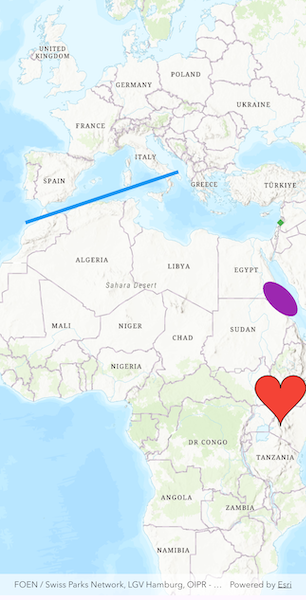
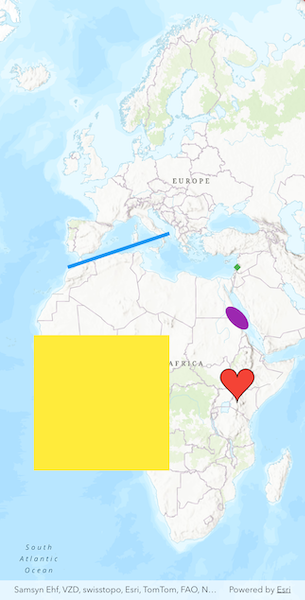
Updated the square polygon

diff --git a/lib/samples/style_graphics_with_renderer/style_graphics_with_renderer.dart b/lib/samples/style_graphics_with_renderer/style_graphics_with_renderer.dart
@@ -48,6 +48,7 @@ class _StyleGraphicsWithRendererState extends State<StyleGraphicsWithRenderer>
 
     // Add graphics overlays to the mapview controller.
     _mapViewController.graphicsOverlays.add(getPointGraphicsOverlay());
+    _mapViewController.graphicsOverlays.add(getSquarePolygonGraphicsOverlay());
     _mapViewController.graphicsOverlays.add(getLineGraphicsOverlay());
     _mapViewController.graphicsOverlays.add(getEllipseGraphicsOverlay());
     _mapViewController.graphicsOverlays.add(getCurvedPolygonGraphicsOverlay());
@@ -57,10 +58,10 @@ class _StyleGraphicsWithRendererState extends State<StyleGraphicsWithRenderer>
     // Combined extent of all the graphic overlays.
     final combinedExtent = Envelope.fromXY(
       spatialReference: SpatialReference.webMercator,
-      xMin: -1500000,
-      yMin: 000000,
-      xMax: 4500000,
-      yMax: 5500000,
+      xMin: -3000000,
+      yMin: -1000000,
+      xMax: 6000000,
+      yMax: 7000000,
     );
 
     _mapViewController.setViewpointGeometry(combinedExtent);
@@ -112,6 +113,28 @@ class _StyleGraphicsWithRendererState extends State<StyleGraphicsWithRenderer>
     lineGraphicsOverlay.graphics.add(lineGraphic);
 
     return lineGraphicsOverlay;
+  }
+
+  GraphicsOverlay getSquarePolygonGraphicsOverlay() {
+    // Create a simple fill symbol.
+    final squareSymbol = SimpleFillSymbol(color: Colors.yellow);
+    // Create a graphics overlay for the square polygons.
+    final squareGraphicsOverlay = GraphicsOverlay();
+    // Create and assign a simple renderer to the graphics overlay.
+    squareGraphicsOverlay.renderer = SimpleRenderer(symbol: squareSymbol);
+
+    // Create a polygon graphic with `Polygon` geometry.
+    final polygonBuilder =
+        PolygonBuilder(spatialReference: SpatialReference.webMercator);
+    polygonBuilder.addPoint(ArcGISPoint(x: -20e5, y: 20e5));
+    polygonBuilder.addPoint(ArcGISPoint(x: 20e5, y: 20e5));
+    polygonBuilder.addPoint(ArcGISPoint(x: 20e5, y: -20e5));
+    polygonBuilder.addPoint(ArcGISPoint(x: -20e5, y: -20e5));
+    final polygonGraphic = Graphic(geometry: polygonBuilder.toGeometry());
+    // Add the graphic to the overlay.
+    squareGraphicsOverlay.graphics.add(polygonGraphic);
+
+    return squareGraphicsOverlay;
   }
 
   GraphicsOverlay getEllipseGraphicsOverlay() {
